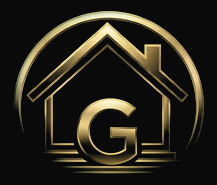
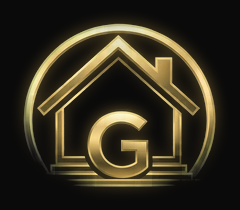
Bring the glow back, and the steps under the G
The last icon pass removed a cloudy white haze baked into the source art
with a hard cut at alpha 96. That was too blunt: it also deleted the soft
edges of the steps under the G, which sit in the same alpha band as the
haze, and left the mark thin and dim next to the other icons in the suite.

The haze can't be separated by brightness or by colour. The pixels at
alpha 64-95 have the same saturation as the mark itself, and a
saturation-based cut kept the haze as olive patches around the G. What
tells them apart is shape: the steps and strokes are thin and crisp, the
haze is broad and smooth.

So the art is now cleaned with a top-hat transform, which keeps features
narrower than 21px and discards broad smooth fields. A small noise knee
then removes the grain it leaves in empty areas, and a stray speck under
the steps that turned out to be the tail of the haze at 7% alpha.

The glow is put back deliberately: a blurred, gold-tinted copy of the
cleaned mark composited behind it, the same warm halo the other icons
carry, in place of the accidental grey cloud. The art gets a 12% margin
for it to fade into, so coverage rises to 0.98 to keep the mark itself at
the template's ~0.79 of the icon width.

make_icon_art.py now prints the coverage to use, since it depends on the
margin. docs/ICON_TEMPLATE.md records the two approaches that didn't work
so they aren't repeated. Both scripts regenerate every shipped file
byte-identically.
[…]

diff --git a/scripts/make_icon_art.py b/scripts/make_icon_art.py
@@ -14,7 +14,21 @@ forking the shared script to suit this source.
 
     python3 scripts/make_icon_art.py
     python3 scripts/make_icon.py --art public/brand/icon-art.png \\
-        --out public/icons --coverage 0.88
+        --out public/icons --coverage 0.98
+
+Two jobs beyond flattening, because the source carries a wide, cloudy white
+haze around the mark that reads as grey smoke on a near-black plate:
+
+  1. Remove the haze by SHAPE, not by brightness. A top-hat transform keeps
+     features narrower than --haze-size (strokes, the steps under the G) and
+     discards broad smooth fields (the haze). An earlier version cut everything
+     under a fixed alpha, which also deleted the soft edges of the steps. A
+     colour-based cut didn't work either: the haze is gold-tinted in places, so
+     it can't be told from the real gold by saturation.
+
+  2. Put a glow back on purpose. The sibling icons have a warm halo; a
+     blurred, gold-tinted copy of the cleaned mark gives Gunderhouse the same
+     one, without the accidental grey cloud.
 """
 
 from __future__ import annotations
@@ -23,57 +37,85 @@ import argparse
 from pathlib import Path
 
 import numpy as np
-from PIL import Image
+from PIL import Image, ImageFilter
 
-PLATE = (10, 10, 10, 255)  # #0a0a0a, the locked tile colour
+PLATE = np.array([10, 10, 10], np.float32)  # #0a0a0a, the locked tile colour
+GOLD = np.array([201, 160, 76], np.float32)  # #C9A04C, the template's mid gold
 
-# The mark art carries a wide near-white glow at very low alpha — around 21,000
-# pixels under alpha 60, averaging RGB (255, 254, 230). Invisible against a
-# white page, and obvious grey haze on a near-black plate. Floor it and rescale
-# what remains so genuine antialiased edges stay smooth rather than being cut
-# to a hard line.
-ALPHA_FLOOR = 96
+HAZE_SIZE = 21  # px, odd. Wider than any stroke in the mark (the G is ~14px)
+NOISE_KNEE = 0.08  # drop residual alpha below this: grain and the stray speck
+GLOW = 0.65  # strength of the gold halo, 0 for none
+GLOW_SIGMA = 0.035  # blur radius, as a fraction of the mark's width
+MARGIN = 0.12  # padding, as a fraction of the mark's width
+TARGET = 0.79  # mark width as a fraction of the icon, per the template
 
-# Padding around the trimmed mark, as a fraction of its size. make_icon.py
-# feathers 5.3% in from the edge of whatever it is given, so the art needs a
-# margin at least that wide or the feather eats into the mark itself.
-MARGIN = 0.07
+
+def remove_haze(alpha: np.ndarray, size: int, knee: float) -> np.ndarray:
+    """Keep what is narrower than `size`; discard broad smooth fields."""
+    img = Image.fromarray((alpha * 255).astype("uint8"))
+    opened = img.filter(ImageFilter.MinFilter(size)).filter(ImageFilter.MaxFilter(size))
+    detail = np.clip(alpha - np.array(opened).astype(np.float32) / 255.0, 0.0, 1.0)
+    # Boost slightly: the top-hat shaves a little off the thickest strokes.
+    detail = np.clip(detail * 1.15, 0.0, 1.0)
+    return np.clip((detail - knee) / (1.0 - knee), 0.0, 1.0)
 
 
 def main() -> None:
-    ap = argparse.ArgumentParser(description=__doc__)
+    ap = argparse.ArgumentParser(description=__doc__.split("\n\n")[0])
     ap.add_argument("--src", default="public/brand/mark.webp")
     ap.add_argument("--out", default="public/brand/icon-art.png")
-    ap.add_argument("--alpha-floor", type=int, default=ALPHA_FLOOR)
+    ap.add_argument("--haze-size", type=int, default=HAZE_SIZE)
+    ap.add_argument("--knee", type=float, default=NOISE_KNEE)
+    ap.add_argument("--glow", type=float, default=GLOW)
+    ap.add_argument("--glow-sigma", type=float, default=GLOW_SIGMA)
     ap.add_argument("--margin", type=float, default=MARGIN)
     args = ap.parse_args()
 
-    mark = Image.open(Path(args.src)).convert("RGBA")
+    if args.haze_size % 2 == 0:
+        raise SystemExit("--haze-size must be odd")
 
-    arr = np.array(mark).astype(np.float32)
-    if args.alpha_floor:
-        a = arr[:, :, 3]
-        arr[:, :, 3] = (
-            np.clip((a - args.alpha_floor) / (255.0 - args.alpha_floor), 0.0, 1.0)
-            * 255.0
-        )
-    mark = Image.fromarray(arr.astype("uint8"), "RGBA")
+    src = np.array(Image.open(Path(args.src)).convert("RGBA")).astype(np.float32)
+    rgb, alpha = src[..., :3], src[..., 3] / 255.0
 
-    bbox = mark.getbbox()
-    if bbox:
-        mark = mark.crop(bbox)
+    alpha = remove_haze(alpha, args.haze_size, args.knee)
 
-    pad_w = int(mark.width * args.margin)
-    pad_h = int(mark.height * args.margin)
-    out = Image.new("RGBA", (mark.width + pad_w * 2, mark.height + pad_h * 2), PLATE)
-    out.alpha_composite(mark, (pad_w, pad_h))
+    ys, xs = np.where(alpha > 0.02)
+    y0, y1, x0, x1 = ys.min(), ys.max() + 1, xs.min(), xs.max() + 1
+    rgb, alpha = rgb[y0:y1, x0:x1], alpha[y0:y1, x0:x1]
+    h, w = alpha.shape
+
+    # The glow lives in the margin, so the margin has to be wide enough for it
+    # to fade out before make_icon.py's edge feather reaches it.
+    pad = int(round(w * args.margin))
+    H, W = h + 2 * pad, w + 2 * pad
+    A = np.zeros((H, W), np.float32)
+    A[pad : pad + h, pad : pad + w] = alpha
+    RGB = np.zeros((H, W, 3), np.float32)
+    RGB[pad : pad + h, pad : pad + w] = rgb
+
+    canvas = np.tile(PLATE, (H, W, 1))
+    if args.glow > 0:
+        blurred = np.array(
+            Image.fromarray((A * 255).astype("uint8")).filter(
+                ImageFilter.GaussianBlur(args.glow_sigma * w)
+            )
+        ).astype(np.float32) / 255.0
+        g = np.clip(blurred * args.glow, 0.0, 1.0)[..., None]
+        canvas = canvas * (1 - g) + GOLD * g
+    A3 = A[..., None]
+    canvas = canvas * (1 - A3) + RGB * A3
 
     path = Path(args.out)
     path.parent.mkdir(parents=True, exist_ok=True)
-    out.convert("RGB").save(path)
-    print(f"wrote {path}  {out.width}x{out.height}")
-    print(f"  mark {mark.width}x{mark.height}, alpha floor {args.alpha_floor}, "
-          f"margin {args.margin:.0%}")
+    Image.fromarray(np.clip(canvas, 0, 255).astype("uint8")).save(path)
+
+    # --coverage measures the whole art rectangle, padding included, so it has
+    # to be scaled up for the mark itself to land at TARGET of the icon.
+    coverage = min(1.0, TARGET * (W / w))
+    print(f"wrote {path}  {W}x{H}   (mark {w}x{h}, margin {args.margin:.0%})")
+    print(f"  haze {args.haze_size}px · knee {args.knee} · glow {args.glow} "
+          f"· sigma {args.glow_sigma}")
+    print(f"  run make_icon.py with --coverage {coverage:.2f}")
 
 
 if __name__ == "__main__":

diff --git a/docs/ICON_TEMPLATE.md b/docs/ICON_TEMPLATE.md
@@ -46,35 +46,50 @@ gold frame. Leave everything else at the defaults.
 ## What Gunderhouse used
 
 ```bash
+python3 scripts/make_icon_art.py          # mark.webp -> public/brand/icon-art.png
 python3 scripts/make_icon.py \
-  --art public/brand/icon-art.png --out public/icons --coverage 0.88
+  --art public/brand/icon-art.png --out public/icons --coverage 0.98
 ```
+
+`make_icon_art.py` prints the coverage to use; it changes if you change `--margin`.
 
 ### Preparing the art
 
-The script loads art as **RGB and discards any alpha** — it expects a picture
+`make_icon.py` loads art as **RGB and discards any alpha** — it expects a picture
 of the mark already sitting on a dark background, and feathers the rectangle
 edge so it melts into the tile. Gunderhouse's `public/brand/mark.webp` is RGBA
-with a transparent surround, so feeding it in directly produces a grey box:
-its transparent pixels carry RGB (121, 121, 120) underneath.
+with a transparent surround, so feeding it in directly produces a grey box: its
+transparent pixels carry RGB (121, 121, 120) underneath.
 
-`public/brand/icon-art.png` is the prepared source, built once from mark.webp:
+`make_icon_art.py` prepares a source that suits the shared script instead of
+forking the shared script to suit the art. It does three things.
 
-1. Alpha floored at 96 and rescaled. The mark art carries a wide near-white
-   glow — 21,000-odd pixels under alpha 60, averaging RGB (255, 254, 230).
-   Invisible on a white page, obvious as grey haze on a near-black plate.
-2. Composited onto `#0a0a0a`.
-3. Trimmed to the mark, then padded 7% — just clear of the script's 5.3%
-   feather, so the feather falls on empty plate instead of eating the mark.
+**1. Removes the haze by shape.** The mark carries a wide, cloudy white haze
+that reads as grey smoke on a near-black plate. A top-hat transform keeps
+features narrower than `--haze-size` (21px: strokes, the steps under the G) and
+discards broad smooth fields. Two approaches that did *not* work, so nobody
+repeats them:
 
-Regenerate it with `scripts/make_icon_art.py` if mark.webp ever changes.
+- *Cutting everything under a fixed alpha.* Removed the haze and also the soft
+  edges of the steps under the G, which sit in the same alpha band as the haze.
+- *Cutting by colour (saturation).* The haze is gold-tinted in places, so the
+  smoke came back as olive patches around the G.
 
-### Why coverage is 0.88, not 0.78
+**2. Puts a glow back on purpose.** The other icons in the suite have a warm
+halo. A blurred, gold-tinted (`#C9A04C`) copy of the cleaned mark, composited
+behind it, gives Gunderhouse the same one — as a deliberate effect rather than
+the accidental grey cloud. `--glow 0` turns it off.
 
-`--coverage` measures the whole art rectangle, and this art carries a 7%
-padding ring. 0.88 of the rectangle puts the mark itself at roughly 0.79 of
-the icon — the template's intent. At 0.94 the circle crowds the gold border;
-at 0.82 it floats.
+**3. Drops residual noise.** A small knee (`--knee 0.08`) removes the grain the
+top-hat leaves in empty areas, and a stray speck under the steps (the tail of
+the haze, peaking at 7% alpha).
+
+### Why coverage is 0.98
+
+`--coverage` measures the whole art rectangle, padding included, and the art
+carries a 12% margin on every side for the glow to fade into. 0.98 of that
+rectangle puts the mark itself at about 0.79 of the icon — the template's
+intent. A larger glow needs a larger margin, which needs a larger coverage.
 
 The source mark is only ~210px wide, so the 512 renders are upscaled and a
 little soft at full size. Fine at the sizes anyone actually sees it; worth
